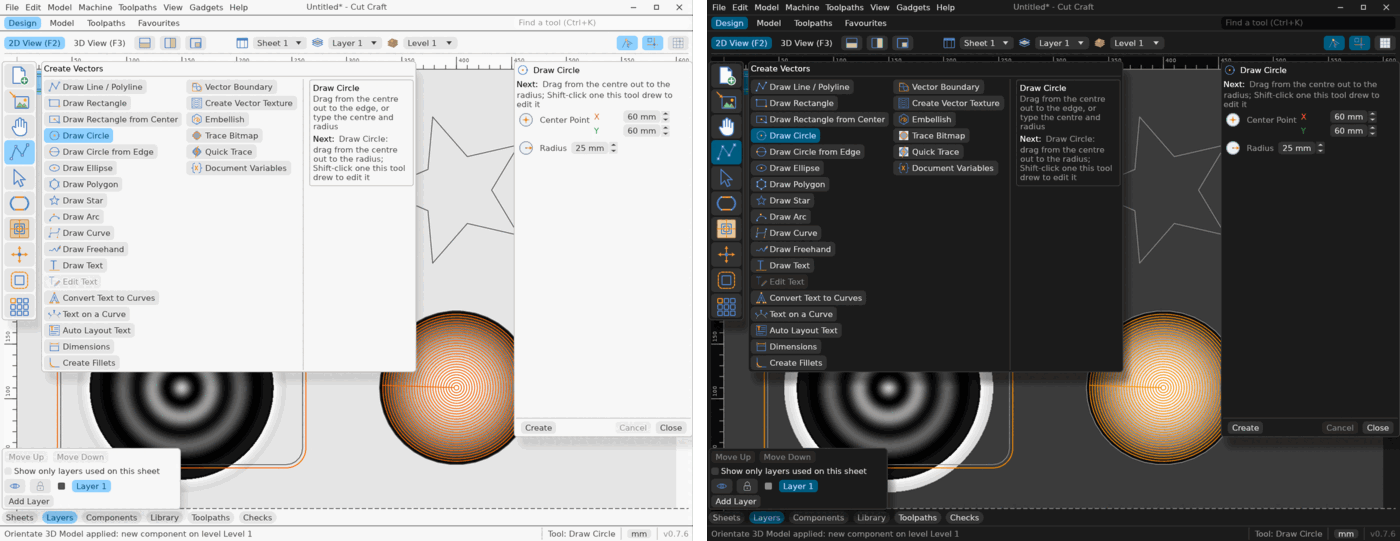
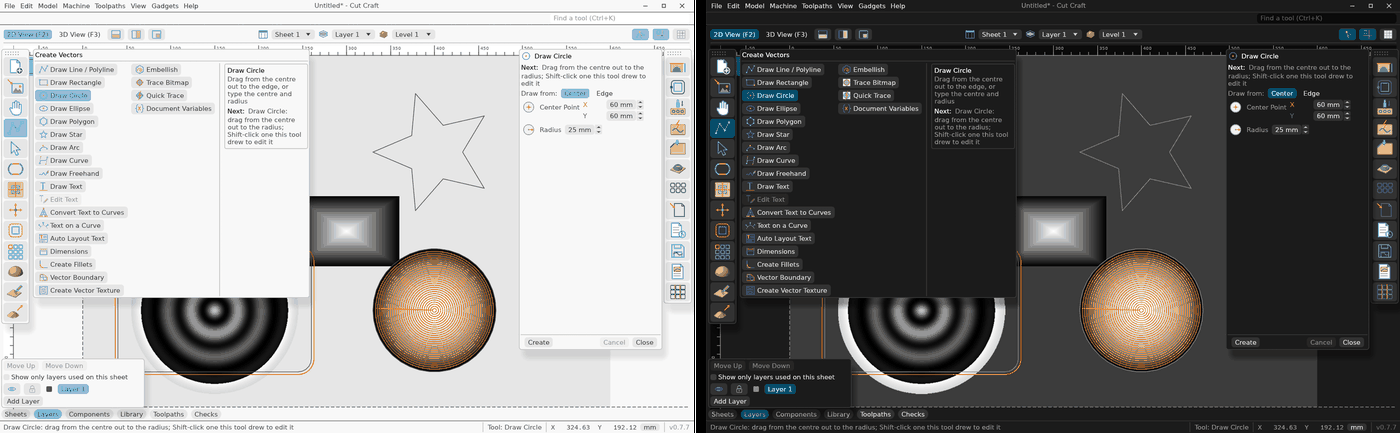
fix: the Canvas form stays beside the Toolpaths bar; new Canvas pictures
The form was placed once, where the Toolpaths bar was on the first frame
(measured with egui's wide first-frame box), so it sat over the drawing's
middle. It now follows the bar as it moves and as the window changes size.
Retakes the Canvas layout picture for its help page and the README.

Claude-Session: https://claude.ai/code/session_01Uqr4BHST9qMmrGGW2kNtru

diff --git a/crates/app/src/app/canvas_layout.rs b/crates/app/src/app/canvas_layout.rs
@@ -131,13 +131,14 @@ impl CutCraftApp {
         if self.form.is_some() {
             let width = super::DESIGN_PANEL_WIDTHS * ui.spacing().interact_size.x;
             let height = FORM_SHARE * (room.bottom() - top);
-            // beside the toolpaths bar on the right, not over it
+            // beside the toolpaths bar on the right, not over it, following it as it moves
+            // and as the window changes size
             let right = toolpaths
                 .filter(|r| r.center().x > room.center().x)
                 .map_or(room.right(), |r| r.left());
             egui::Area::new(egui::Id::unique("canvas_form"))
                 .pivot(egui::Align2::RIGHT_TOP)
-                .default_pos(egui::pos2(right - margin, top))
+                .fixed_pos(egui::pos2(right - margin, top))
                 .show(ui.ctx(), |ui| {
                     floating(ui).show(ui, |ui| {
                         cut_craft_bug_report::mark(ui, "Canvas form");
